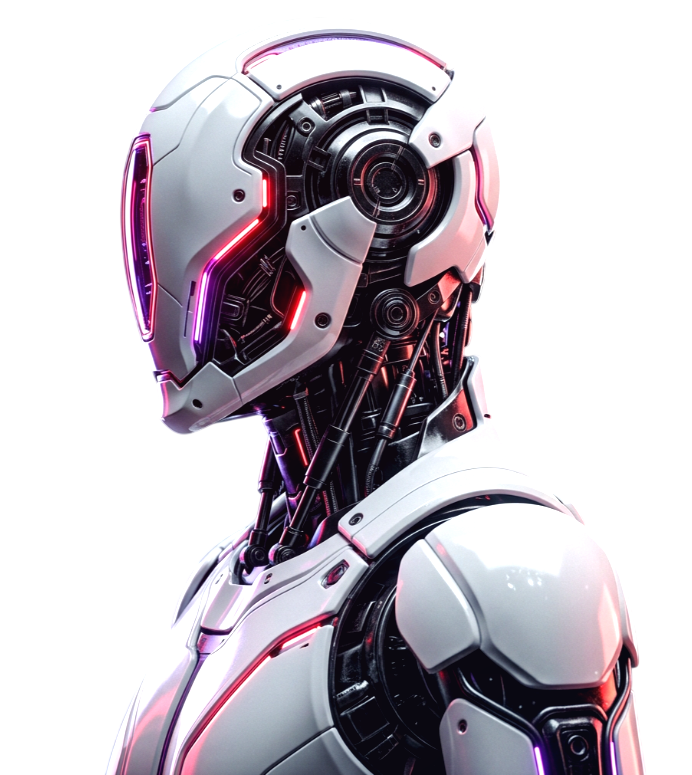
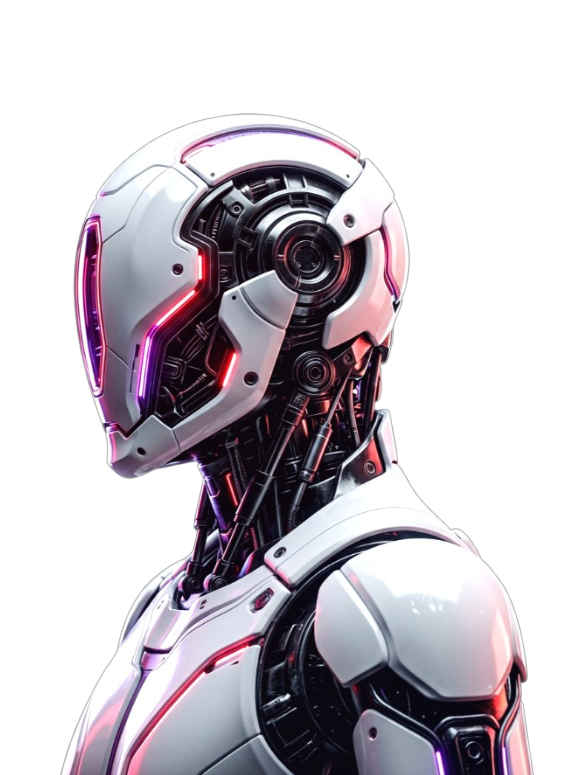
feat: added modern light/dark themes and redesigned Hero and Navigation

diff --git a/src/components/Navigation.tsx b/src/components/Navigation.tsx
@@ -1,5 +1,6 @@
 import { useState, useEffect, useRef } from 'react';
-import { Menu, X } from 'lucide-react';
+import { Menu, X, Sun, Moon } from 'lucide-react';
+import { useTheme } from 'next-themes';
 import { useLocation, useNavigate } from 'react-router-dom';
 import AuthButton from './AuthButton';
 
@@ -24,6 +25,7 @@ export default function Navigation({ onNavigateHome }: { onNavigateHome?: () => 
   const linkRefs = useRef<Map<string, HTMLAnchorElement>>(new Map());
   const location = useLocation();
   const navigate = useNavigate();
+  const { theme, setTheme } = useTheme();
 
   const isHomePage = location.pathname === '/';
 
@@ -95,85 +97,92 @@ export default function Navigation({ onNavigateHome }: { onNavigateHome?: () => 
 
   return (
     <>
-      <nav
-        className={`fixed top-0 left-0 right-0 z-50 transition-all duration-500 ${isScrolled
-            ? 'bg-[#0a0a0a]/85 backdrop-blur-xl border-b border-white/8 shadow-2xl'
-            : 'bg-transparent'
-          }`}
-      >
-        {/* Gradient line at bottom of nav when scrolled */}
-        {isScrolled && (
-          <div className="absolute bottom-0 left-0 right-0 h-px bg-gradient-to-r from-transparent via-red-500/30 to-transparent" />
-        )}
+      <div className={`fixed top-2 sm:top-6 left-0 right-0 z-50 flex justify-center px-4 sm:px-6 transition-all duration-700 ease-out ${isScrolled ? 'translate-y-0' : 'translate-y-[-4px]'}`}>
+        <nav
+          className={`w-full max-w-6xl rounded-2xl lg:rounded-full transition-all duration-500 border ${isScrolled
+            ? 'bg-[#0a0a0a]/70 backdrop-blur-2xl border-white/10 shadow-[0_10px_40px_rgba(0,0,0,0.5)]'
+            : 'bg-transparent border-transparent lg:bg-black/20 lg:backdrop-blur-xl lg:border-white/5'
+            }`}
+        >
+          <div className="w-full px-4 sm:px-6 lg:px-6">
+            <div className="flex items-center justify-between h-16 lg:h-16">
 
-        <div className="w-full px-4 sm:px-6 lg:px-8 xl:px-12">
-          <div className="flex items-center justify-between h-14 lg:h-16">
-
-            {/* Logo */}
-            <a
-              href="#home"
-              onClick={(e) => { e.preventDefault(); scrollToSection('#home'); }}
-              className="flex items-center group"
-            >
-              <div className="relative h-10 w-32 sm:w-40 flex items-center justify-start flex-shrink-0">
-                <img src="/images/ras.webp" alt="RAS Logo" className="relative h-9 w-auto object-contain" />
-              </div>
-            </a>
-
-            {/* Desktop Navigation */}
-            <div ref={navRef} className="hidden lg:flex items-center gap-1 relative">
-              {/* Sliding indicator */}
-              {isHomePage && (
-                <div
-                  className="absolute bottom-0 h-0.5 bg-gradient-to-r from-red-500 to-purple-500 rounded-full transition-all duration-400 ease-out pointer-events-none"
-                  style={{
-                    left: indicatorStyle.left,
-                    width: indicatorStyle.width,
-                    opacity: indicatorStyle.opacity,
-                    transform: 'translateY(0)',
-                  }}
-                />
-              )}
-
-              {navLinks.map((link) => {
-                const sectionId = link.href.slice(1);
-                const isActive = isHomePage && activeSection === sectionId;
-                return (
-                  <a
-                    key={link.name}
-                    href={link.href}
-                    ref={(el) => { if (el) linkRefs.current.set(sectionId, el); }}
-                    onClick={(e) => { e.preventDefault(); scrollToSection(link.href); }}
-                    className={`nav-link relative px-4 py-2 text-sm font-medium rounded-lg transition-all duration-300 ${isActive
-                        ? 'text-white bg-white/5'
-                        : 'text-gray-400 hover:text-white hover:bg-white/5'
-                      }`}
-                  >
-                    {link.name}
-                  </a>
-                );
-              })}
-            </div>
-
-            {/* CTA + Auth + Mobile */}
-            <div className="flex items-center gap-3">
-              {/* Auth Button */}
-              <AuthButton />
-
-              <button
-                onClick={() => setIsMobileMenuOpen(!isMobileMenuOpen)}
-                className="lg:hidden p-2.5 text-white hover:bg-white/10 rounded-lg transition-colors border border-white/10"
-                aria-label="Toggle menu"
+              {/* Logo */}
+              <a
+                href="#home"
+                onClick={(e) => { e.preventDefault(); scrollToSection('#home'); }}
+                className="flex items-center group"
               >
-                {isMobileMenuOpen
-                  ? <X className="w-5 h-5" />
-                  : <Menu className="w-5 h-5" />
-                }
-              </button>
+                <div className="relative h-10 w-32 sm:w-40 flex items-center justify-start flex-shrink-0">
+                  <img src="/images/ras.webp" alt="RAS Logo" className="relative h-9 w-auto object-contain" />
+                </div>
+              </a>
+
+              {/* Desktop Navigation */}
+              <div ref={navRef} className="hidden lg:flex items-center gap-1 relative">
+                {/* Sliding indicator */}
+                {isHomePage && (
+                  <div
+                    className="absolute h-[38px] bg-red-500/10 border border-red-500/30 rounded-full transition-all duration-400 ease-out pointer-events-none shadow-[0_0_15px_rgba(239,68,68,0.2)]"
+                    style={{
+                      left: indicatorStyle.left,
+                      width: indicatorStyle.width,
+                      opacity: indicatorStyle.opacity,
+                      top: '50%',
+                      transform: 'translateY(-50%)',
+                    }}
+                  />
+                )}
+
+                {navLinks.map((link) => {
+                  const sectionId = link.href.slice(1);
+                  const isActive = isHomePage && activeSection === sectionId;
+                  return (
+                    <a
+                      key={link.name}
+                      href={link.href}
+                      ref={(el) => { if (el) linkRefs.current.set(sectionId, el); }}
+                      onClick={(e) => { e.preventDefault(); scrollToSection(link.href); }}
+                      className={`nav-link relative px-4 py-2 text-sm font-semibold rounded-full transition-all duration-300 ${isActive
+                        ? 'text-red-400 drop-shadow-[0_0_10px_rgba(239,68,68,0.6)]'
+                        : 'text-gray-400 hover:text-white hover:bg-white/5'
+                        }`}
+                    >
+                      {link.name}
+                    </a>
+                  );
+                })}
+              </div>
+
+              {/* CTA + Auth + Mobile */}
+              <div className="flex items-center gap-3">
+                {/* Theme Toggle Button */}
+                <button
+                  onClick={() => setTheme(theme === 'dark' ? 'light' : 'dark')}
+                  className="p-2.5 text-gray-400 hover:text-white hover:bg-white/10 rounded-lg transition-colors border border-transparent hover:border-white/10"
+                  aria-label="Toggle theme"
+                >
+                  {theme === 'dark' ? <Sun className="w-5 h-5" /> : <Moon className="w-5 h-5 text-black dark:text-white" />}
+                </button>
+
+                {/* Auth Button */}
+                <AuthButton />
+
+                <button
+                  onClick={() => setIsMobileMenuOpen(!isMobileMenuOpen)}
+                  className="lg:hidden p-2.5 text-white hover:bg-white/10 rounded-lg transition-colors border border-white/10"
+                  aria-label="Toggle menu"
+                >
+                  {isMobileMenuOpen
+                    ? <X className="w-5 h-5" />
+                    : <Menu className="w-5 h-5" />
+                  }
+                </button>
+              </div>
             </div>
           </div>
-        </div>
-      </nav>
+        </nav>
+      </div>
 
       {/* Mobile Menu */}
       <div
@@ -202,8 +211,8 @@ export default function Navigation({ onNavigateHome }: { onNavigateHome?: () => 
                   href={link.href}
                   onClick={(e) => { e.preventDefault(); scrollToSection(link.href); }}
                   className={`flex items-center justify-between px-4 py-3.5 rounded-xl transition-all duration-300 font-medium text-sm ${isActive
-                      ? 'text-white bg-red-500/10 border border-red-500/20'
-                      : 'text-gray-400 hover:text-white hover:bg-white/5'
+                    ? 'text-white bg-red-500/10 border border-red-500/20'
+                    : 'text-gray-400 hover:text-white hover:bg-white/5'
                     }`}
                 >
                   {link.name}

diff --git a/src/components/Hero.tsx b/src/components/Hero.tsx
@@ -60,8 +60,8 @@ export default function Hero() {
       // Robot entrance and floating
       if (robotRef.current) {
         tl.fromTo(robotRef.current,
-          { opacity: 0, x: 100, scale: 0.95 },
-          { opacity: 1, x: 0, scale: 1, duration: 1.8, ease: 'power4.out' },
+          { opacity: 0, x: 100, scale: 1.1 },
+          { opacity: 1, x: 0, scale: 1.4, duration: 1.8, ease: 'power4.out' },
           '-=1.2'
         );
 
@@ -143,23 +143,22 @@ export default function Hero() {
             </p>
 
             {/* Buttons */}
-            <div className="flex flex-col sm:flex-row items-center gap-4 w-full sm:w-auto">
+            <div className="flex flex-col sm:flex-row items-center gap-4 sm:gap-6 w-full sm:w-auto mt-2">
               <a
                 href="#membership"
                 onClick={(e) => { e.preventDefault(); scrollToSection('#membership'); }}
-                className="group relative w-full sm:w-auto flex items-center justify-center gap-3 px-10 py-4.5 bg-white text-black font-extrabold text-sm uppercase tracking-widest hover:bg-gray-200 transition-all shadow-[0_0_40px_rgba(255,255,255,0.2)] hover:shadow-[0_0_60px_rgba(255,255,255,0.4)] hover:scale-105"
-                style={{ clipPath: 'polygon(10px 0, 100% 0, 100% calc(100% - 10px), calc(100% - 10px) 100%, 0 100%, 0 10px)' }}
+                className="group relative w-full sm:w-auto flex items-center justify-center gap-3 px-8 py-4 bg-gradient-to-r from-red-600 to-red-500 rounded-full text-white font-bold text-sm uppercase tracking-widest transition-all duration-300 shadow-[0_0_20px_rgba(239,68,68,0.3)] hover:shadow-[0_0_40px_rgba(239,68,68,0.6)] hover:scale-105 hover:-translate-y-1"
               >
-                <Zap className="w-5 h-5 text-black" />
+                <span className="absolute inset-0 rounded-full bg-white/20 opacity-0 group-hover:opacity-100 transition-opacity duration-300 pointer-events-none" />
+                <Zap className="w-5 h-5 text-white" />
                 Initialize
               </a>
               <a
                 href="#about"
                 onClick={(e) => { e.preventDefault(); scrollToSection('#about'); }}
-                className="group w-full sm:w-auto flex items-center justify-center gap-3 px-10 py-4.5 bg-transparent border border-white/20 text-white font-bold text-sm uppercase tracking-widest hover:bg-white/5 hover:border-white/40 transition-all hover:scale-105"
-                style={{ clipPath: 'polygon(10px 0, 100% 0, 100% calc(100% - 10px), calc(100% - 10px) 100%, 0 100%, 0 10px)' }}
+                className="group relative w-full sm:w-auto flex items-center justify-center gap-3 px-8 py-4 bg-white/5 backdrop-blur-lg border border-white/10 rounded-full text-white font-bold text-sm uppercase tracking-widest transition-all duration-300 hover:bg-white/10 hover:border-white/30 hover:shadow-[0_0_30px_rgba(255,255,255,0.15)] hover:scale-105 hover:-translate-y-1"
               >
-                Discover
+                Discover More
               </a>
             </div>
           </div>
@@ -174,7 +173,7 @@ export default function Hero() {
               ref={robotRef}
               src="/images/x-robot.png"
               alt="Advanced Robot Node"
-              className="relative w-[120%] sm:w-full max-w-[600px] lg:max-w-none lg:w-[145%] h-auto mix-blend-screen mix-blend-lighten z-20 translate-y-[15%] lg:translate-y-[25%]"
+              className="relative w-[120%] sm:w-full max-w-[600px] lg:max-w-none lg:w-[145%] h-auto mix-blend-screen mix-blend-lighten z-20 translate-y-0 lg:translate-y-[5%] scale-[1.7]"
               style={{
                 filter: 'drop-shadow(0 0 40px rgba(239,68,68,0.25)) contrast(1.1) brightness(1.1)',
                 WebkitMaskImage: 'linear-gradient(to top, transparent 5%, black 35%)',

diff --git a/src/index.css b/src/index.css
@@ -6,6 +6,29 @@
 
 @layer base {
   :root {
+    --background: 0 0% 98%;
+    --foreground: 0 0% 4%;
+    --card: 0 0% 100%;
+    --card-foreground: 0 0% 4%;
+    --popover: 0 0% 100%;
+    --popover-foreground: 0 0% 4%;
+    --primary: 0 84% 50%;
+    --primary-foreground: 0 0% 98%;
+    --secondary: 262 83% 58%;
+    --secondary-foreground: 0 0% 4%;
+    --muted: 0 0% 96%;
+    --muted-foreground: 0 0% 45%;
+    --accent: 0 84% 50%;
+    --accent-foreground: 0 0% 4%;
+    --destructive: 0 84% 40%;
+    --destructive-foreground: 0 0% 98%;
+    --border: 0 0% 88%;
+    --input: 0 0% 88%;
+    --ring: 0 84% 50%;
+    --radius: 0.625rem;
+  }
+
+  .dark {
     --background: 0 0% 4%;
     --foreground: 0 0% 98%;
     --card: 0 0% 6%;
@@ -43,7 +66,7 @@
     font-family: 'Inter', sans-serif;
     overflow-x: hidden;
   }
-  
+
   body::after {
     content: "";
     position: fixed;

diff --git a/src/components/ParticleBackground.tsx b/src/components/ParticleBackground.tsx
@@ -26,7 +26,7 @@ export default function ParticleBackground() {
     }
 
     const isMobile = window.innerWidth < 768;
-    const particleCount = isMobile ? 80 : 200; 
+    const particleCount = isMobile ? 80 : 200;
     const particles: Particle[] = [];
 
     const initParticles = () => {
@@ -57,14 +57,14 @@ export default function ParticleBackground() {
     let animId: number;
     const animate = () => {
       animId = requestAnimationFrame(animate);
-      
+
       lerpedScrollY += (scrollY - lerpedScrollY) * 0.08;
 
       ctx.clearRect(0, 0, width, height);
       ctx.fillStyle = '#0a0a0a';
       ctx.fillRect(0, 0, width, height);
 
-      const fov = 400; 
+      const fov = 400;
       const centerX = width / 2;
       const centerY = height / 2;
 

diff --git a/src/main.tsx b/src/main.tsx
@@ -2,6 +2,7 @@ import { StrictMode } from 'react'
 import { createRoot } from 'react-dom/client'
 import { BrowserRouter } from 'react-router-dom'
 import { AuthProvider } from './contexts/AuthContext'
+import { ThemeProvider } from 'next-themes'
 import './index.css'
 import App from './App.tsx'
 
@@ -9,7 +10,9 @@ createRoot(document.getElementById('root')!).render(
   <StrictMode>
     <BrowserRouter>
       <AuthProvider>
-        <App />
+        <ThemeProvider attribute="class" defaultTheme="dark">
+          <App />
+        </ThemeProvider>
       </AuthProvider>
     </BrowserRouter>
   </StrictMode>,
